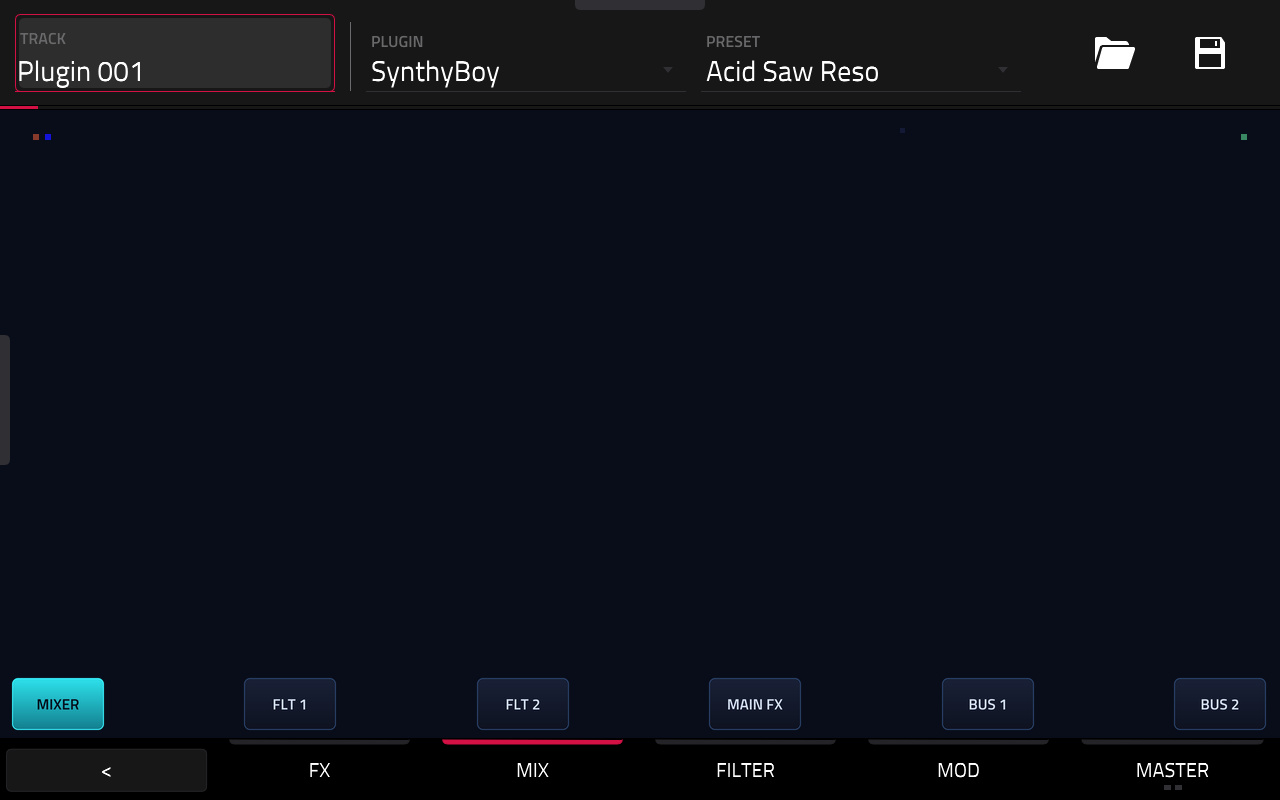
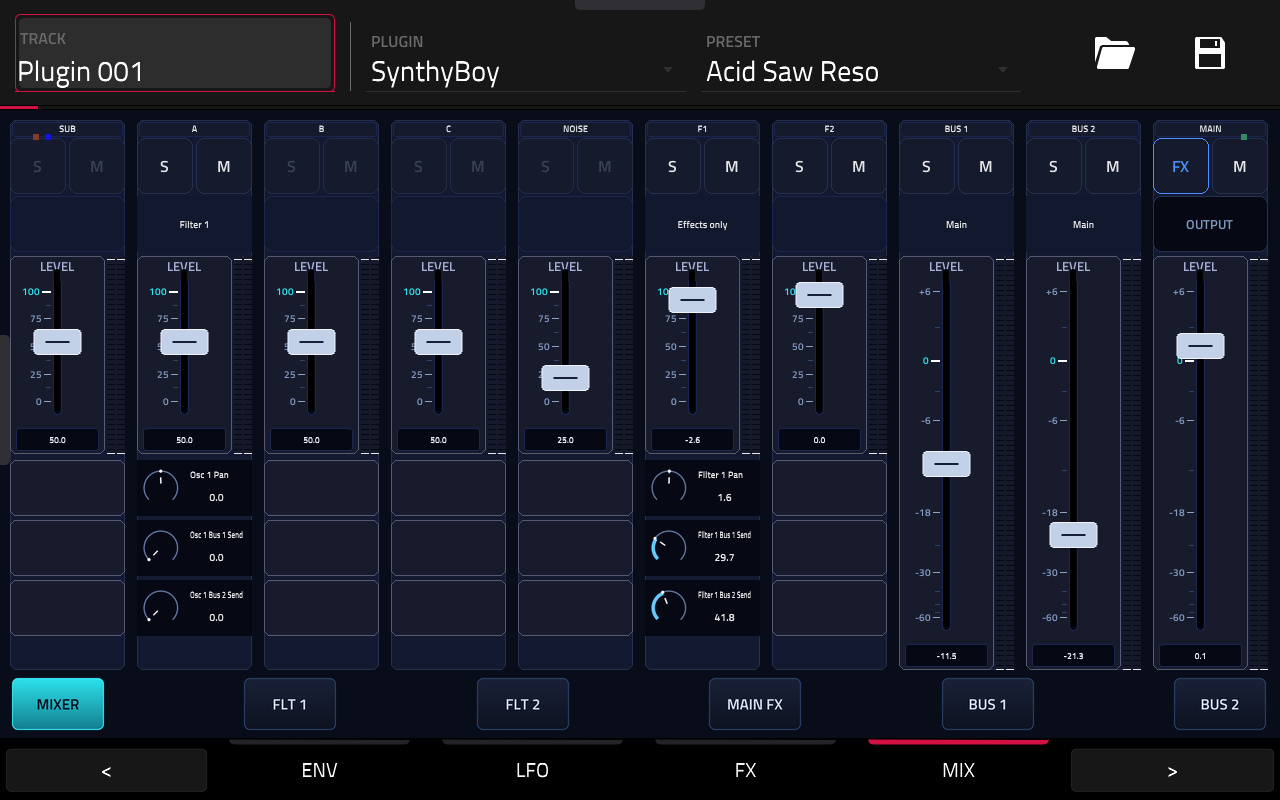
Refresh the ten-channel Mixer capture from the XL

diff --git a/docs/ui-components/native-katalogus.html b/docs/ui-components/native-katalogus.html
@@ -15,7 +15,7 @@
 <section id="lfo"><h2>LFO</h2><p>MPC XL hardverfelvétel · 8c65be5e</p><div class="pair"><figure><a href="../screens/lfo.jpg?v=f3e3099f03cf"><img src="../screens/lfo.jpg?v=f3e3099f03cf" alt="LFO · aktuális előnézet"></a><figcaption>LFO · aktuális előnézet</figcaption></figure></div></section>
 <section id="rnd"><h2>RND</h2><p>Fejlesztési előnézet · offline render, nem hardveres felvétel</p><div class="pair"><figure><a href="../screens/rnd.jpg?v=b52bc095e2c8"><img src="../screens/rnd.jpg?v=b52bc095e2c8" alt="RND · aktuális előnézet"></a><figcaption>RND · aktuális előnézet</figcaption></figure></div></section>
 <section id="fx"><h2>FX</h2><p>MPC XL hardverfelvétel · 8c65be5e</p><div class="pair"><figure><a href="../screens/fx.jpg?v=5e22f8f9f762"><img src="../screens/fx.jpg?v=5e22f8f9f762" alt="FX · aktuális előnézet"></a><figcaption>FX · aktuális előnézet</figcaption></figure></div></section>
-<section id="mixer"><h2>Mixer</h2><p>MPC XL hardverfelvétel · 8c65be5e</p><div class="pair"><figure><a href="../screens/mixer_old.jpg?v=cd315c9184ef"><img src="../screens/mixer_old.jpg?v=cd315c9184ef" alt="Mixer · rögzített régi referencia"></a><figcaption>Mixer · rögzített régi referencia</figcaption></figure><figure><a href="../screens/mixer.jpg?v=64d9698032f1"><img src="../screens/mixer.jpg?v=64d9698032f1" alt="Mixer · aktuális előnézet"></a><figcaption>Mixer · aktuális előnézet</figcaption></figure></div></section>
+<section id="mixer"><h2>Mixer</h2><p>MPC XL hardverfelvétel · 536348cd · tíz natív csatornasáv</p><div class="pair"><figure><a href="../screens/mixer_old.jpg?v=cd315c9184ef"><img src="../screens/mixer_old.jpg?v=cd315c9184ef" alt="Mixer · rögzített régi referencia"></a><figcaption>Mixer · rögzített régi referencia</figcaption></figure><figure><a href="../screens/mixer.jpg?v=0eb0f136bdda"><img src="../screens/mixer.jpg?v=0eb0f136bdda" alt="Mixer · aktuális előnézet"></a><figcaption>Mixer · aktuális előnézet</figcaption></figure></div></section>
 <section id="filter"><h2>Filter</h2><p>MPC XL hardverfelvétel · 8c65be5e</p><div class="pair"><figure><a href="../screens/filter_old.jpg?v=0f55a2bfbe5c"><img src="../screens/filter_old.jpg?v=0f55a2bfbe5c" alt="Filter · rögzített régi referencia"></a><figcaption>Filter · rögzített régi referencia</figcaption></figure><figure><a href="../screens/filter.jpg?v=48ebd421557b"><img src="../screens/filter.jpg?v=48ebd421557b" alt="Filter · aktuális előnézet"></a><figcaption>Filter · aktuális előnézet</figcaption></figure></div></section>
 <section id="mod"><h2>Mod</h2><p>MPC XL hardverfelvétel · 8c65be5e</p><div class="pair"><figure><a href="../screens/mod_old.jpg?v=0e79df023a0a"><img src="../screens/mod_old.jpg?v=0e79df023a0a" alt="Mod · rögzített régi referencia"></a><figcaption>Mod · rögzített régi referencia</figcaption></figure><figure><a href="../screens/mod.jpg?v=1558ce46824e"><img src="../screens/mod.jpg?v=1558ce46824e" alt="Mod · aktuális előnézet"></a><figcaption>Mod · aktuális előnézet</figcaption></figure></div></section>
 <section id="master"><h2>Master</h2><p>MPC XL hardverfelvétel · 8c65be5e</p><div class="pair"><figure><a href="../screens/master_old.jpg?v=dac4721df195"><img src="../screens/master_old.jpg?v=dac4721df195" alt="Master · rögzített régi referencia"></a><figcaption>Master · rögzített régi referencia</figcaption></figure><figure><a href="../screens/master.jpg?v=edd70106ef38"><img src="../screens/master.jpg?v=edd70106ef38" alt="Master · aktuális előnézet"></a><figcaption>Master · aktuális előnézet</figcaption></figure></div></section>

diff --git a/TODO.md b/TODO.md
@@ -312,6 +312,3 @@
 - [ ] Gyári kék `knobBlue` kipróbálása külső pluginból, saját PAN/LEVEL elrendezéssel: aktuális XL közös komponenskönyvtárban igazoltan létezik, gyári `knob_blue.png` 127-frame FilmStrip kompozittal; saját PNG-generálást kiválthat, a GenericNoLabel piros ívének átszínezése külön, továbbra sem igazolt út. Külső VST importja, host-asset feloldása és a belső gyermekek saját elrendezésre adaptálása nincs kipróbálva. Kész, ha áttekintett próba-TUI után a képernyő/bekötés/OFF/gate/értékkezelés igazolt és a tulaj jóváhagyja. Forrásolt mélyellenőrzés és korrigált expert FAQ: `.hw-local/mpc-knowledge/reports/Gyári MPC poti színezés ellenőrzése.md`, `findings/native-knob-customization-xl-3.10.1.md`; csak olvasó aktuális XL-bizonyíték, termék/devicestate nem módosult.
 
 - [ ] Mixer valódi sztereó mérők mind a 10 sávon: független L/R csúcs, hold és jelalapú clip; natív 2×8 px kijelző és 95 px fader, egy célzott jel/bekötés ellenőrzés után develop. (fut: detached mixer-stereo)
-
-
-- [ ] Mixer: a 8c65be5e XL-csomagon az aktív MIXER fül alatt a tíz csatornasáv helye üres, az alsó fülsor látszik (docs/screens/mixer.jpg). Vizsgáld meg a natív strip-példányok láthatósági feltételeit és host-feloldását. Kész, ha az XL-en mind a tíz sáv megjelenik és a sztereó mérők a megfelelő csatornát követik.
